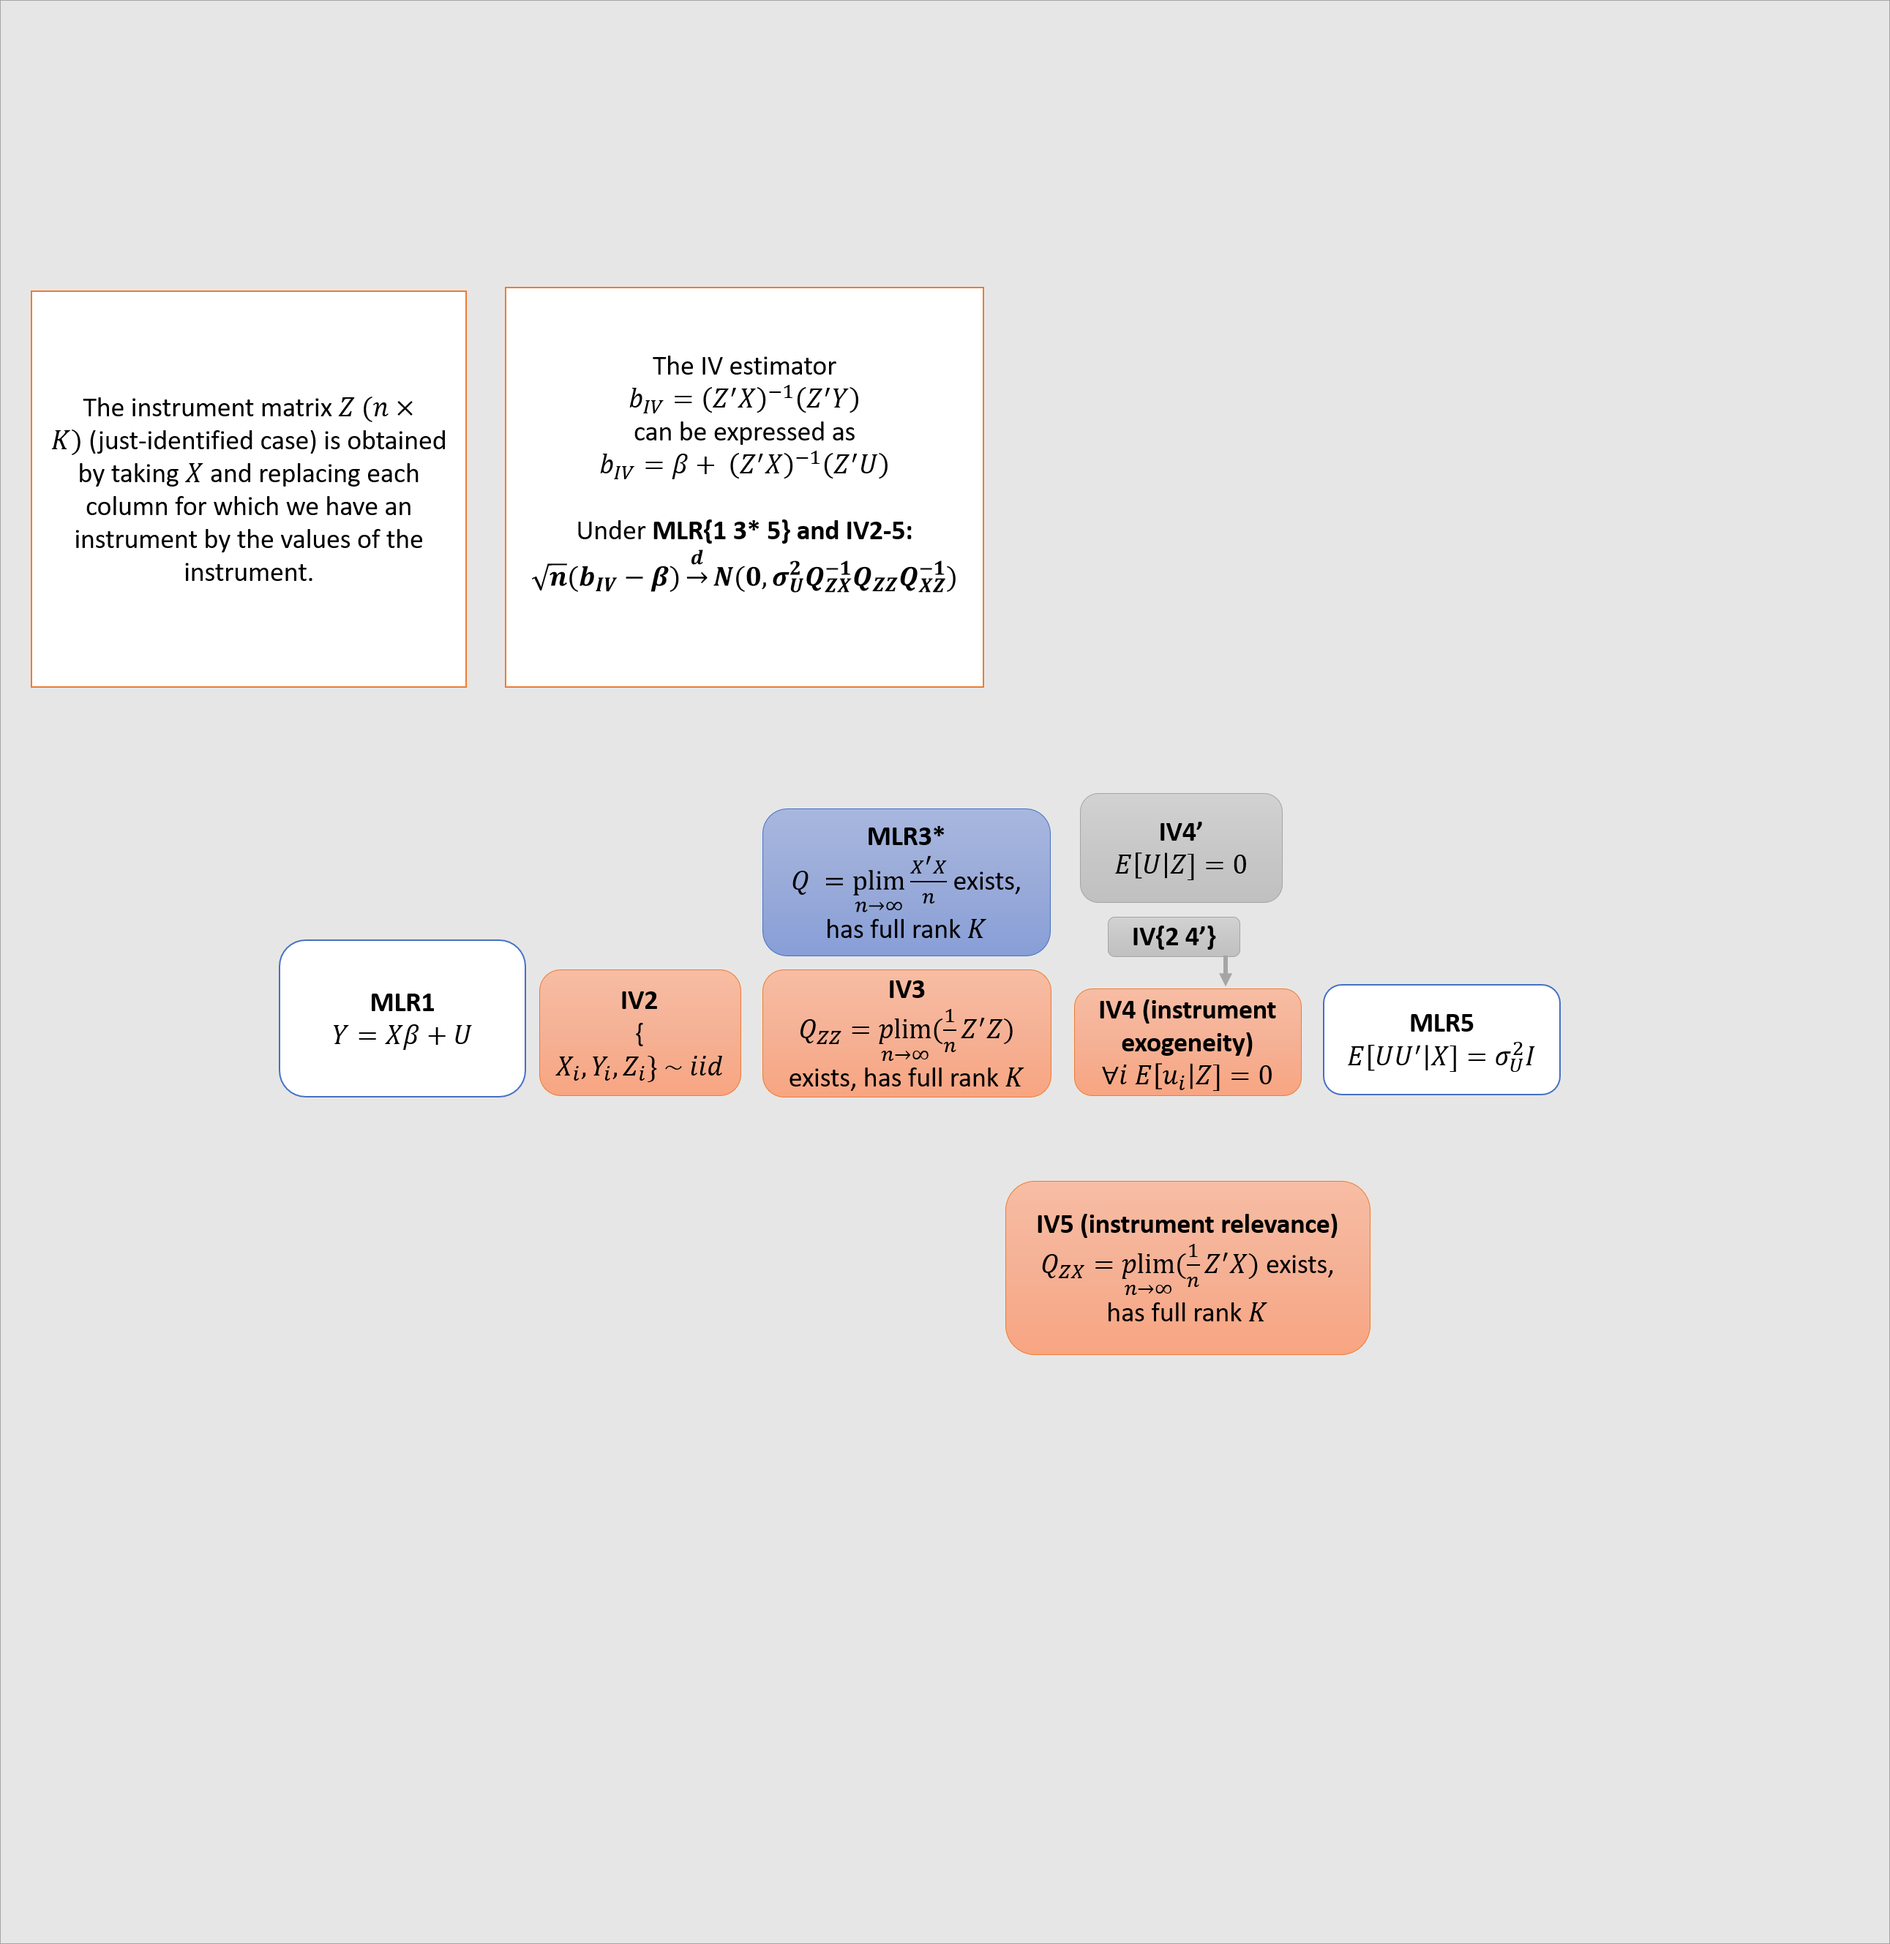
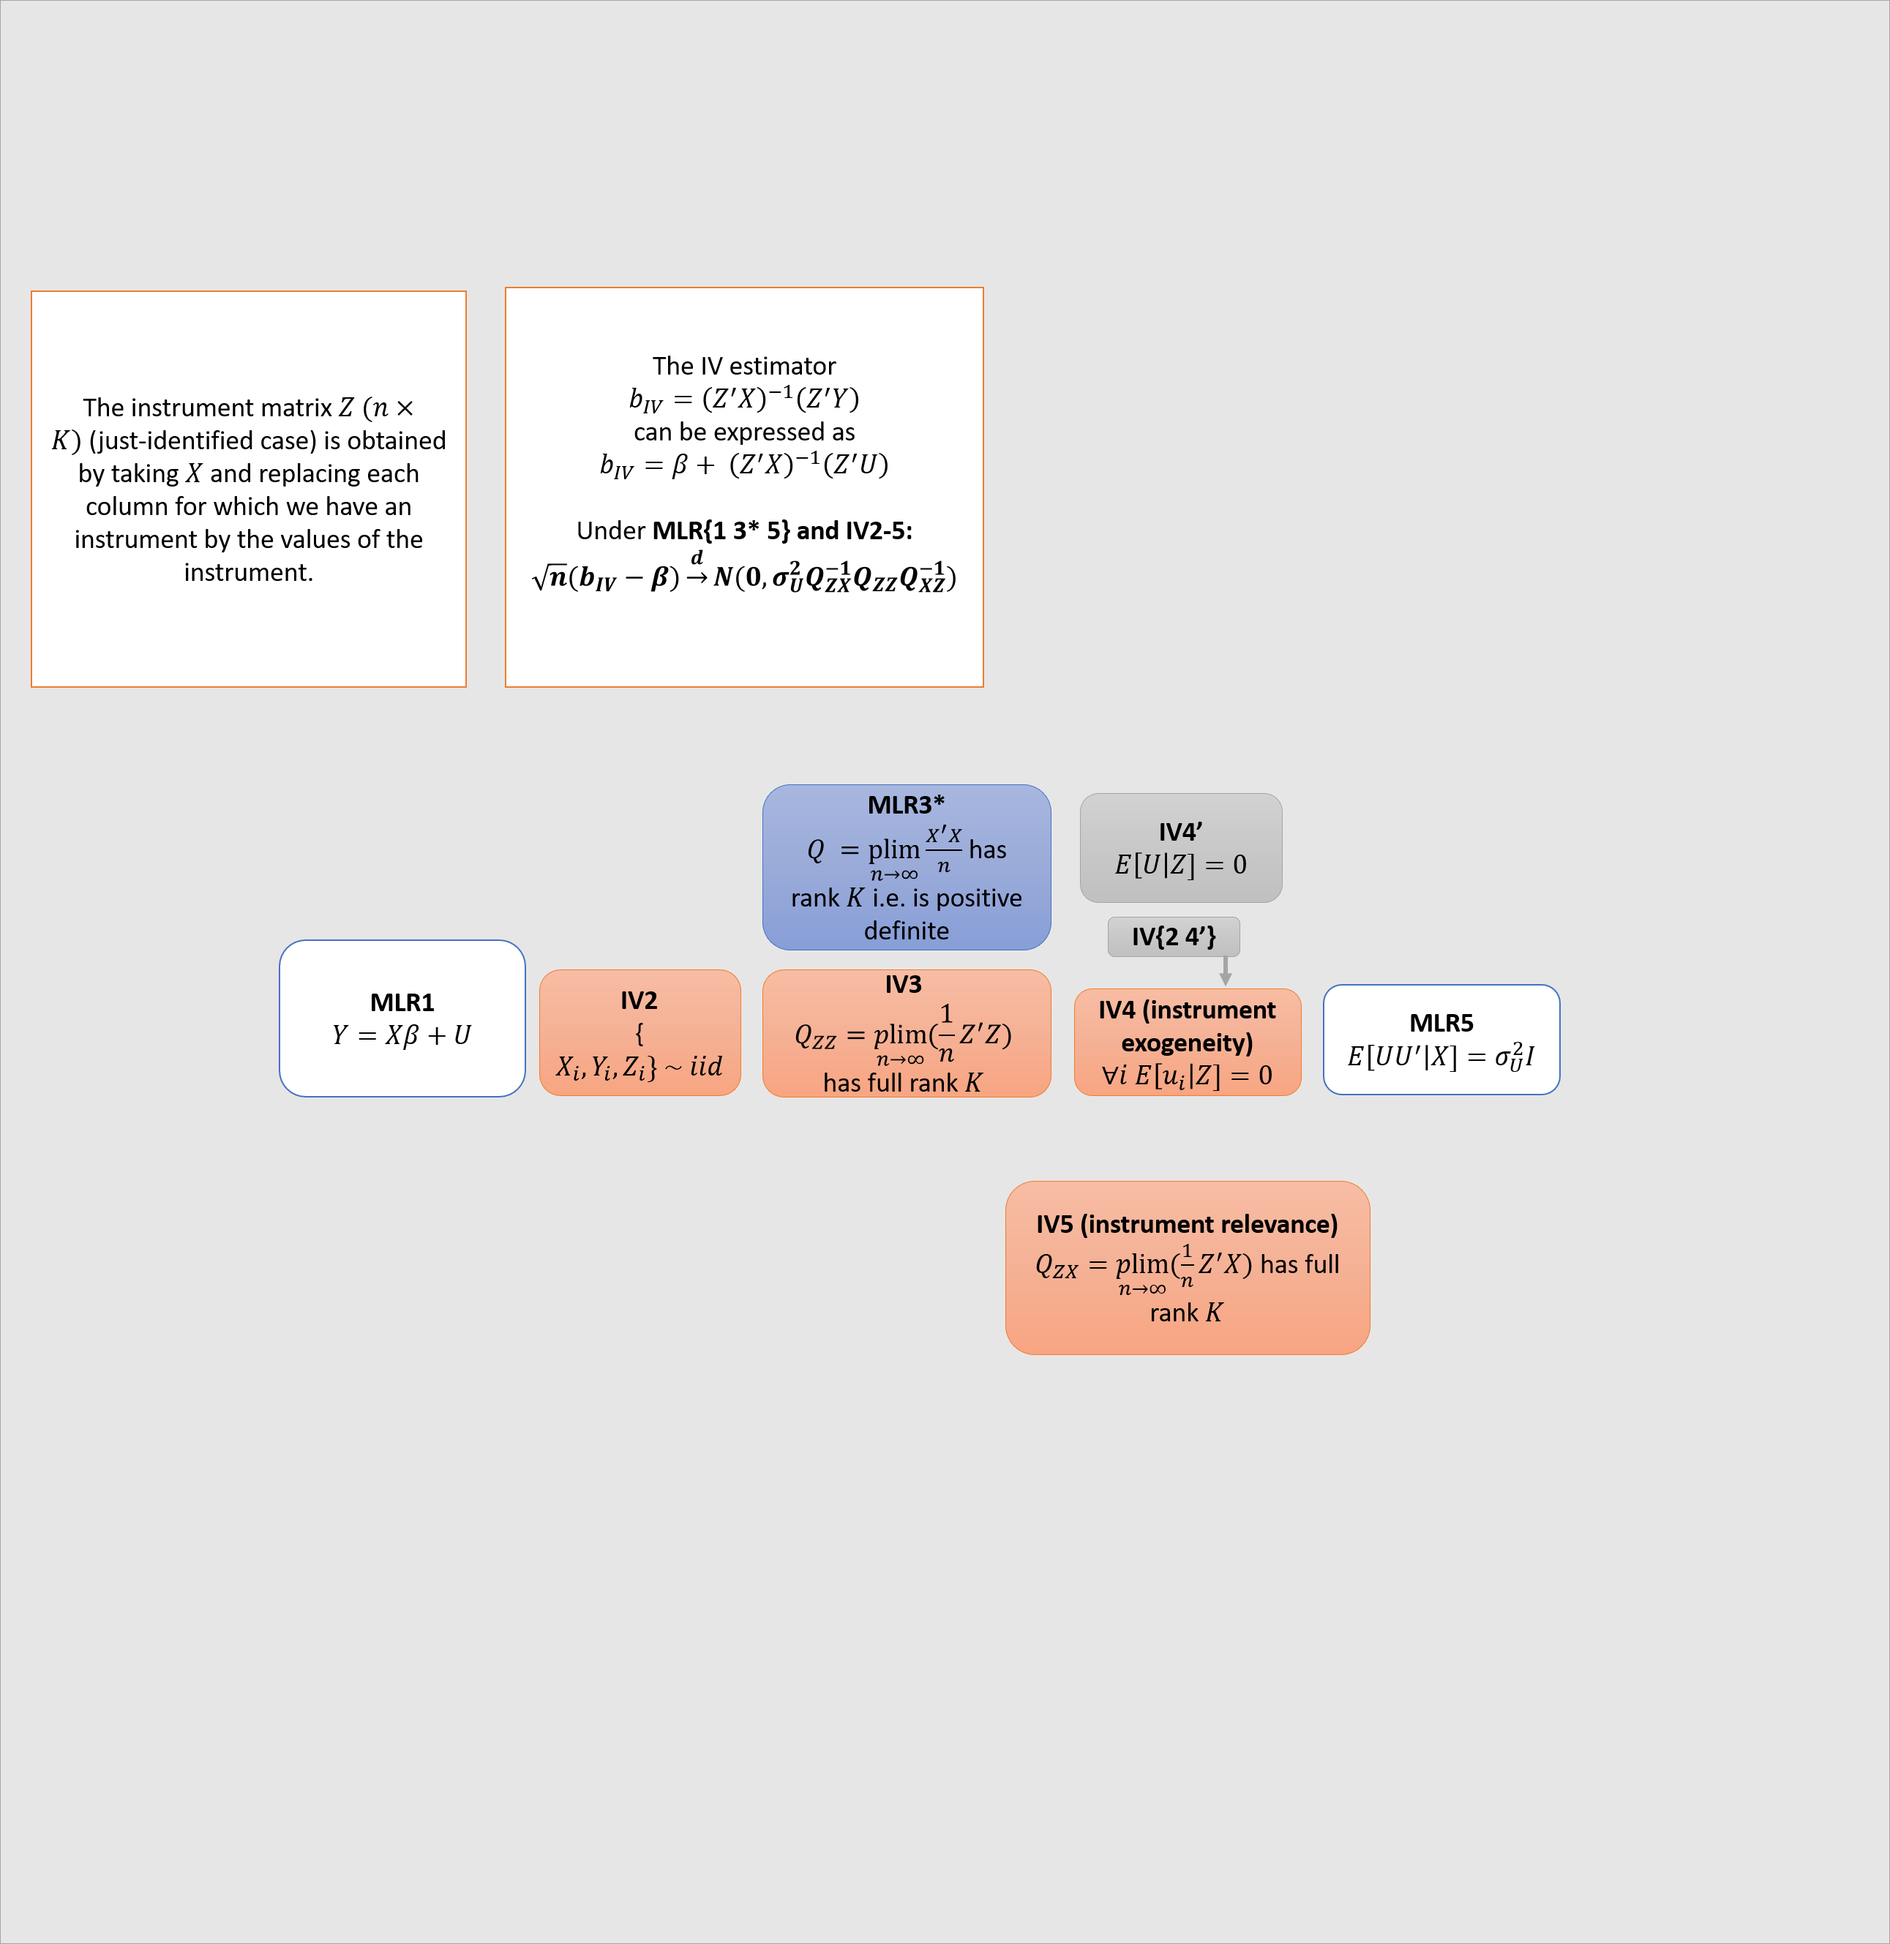
e

Changed region(s): [[0.4026, 0.4061, 0.5575, 0.5623], [0.5885, 0.6248, 0.7123, 0.6872]]

diff --git a/_posts/2018-01-10-linear-regression-diagram.md b/_posts/2018-01-10-linear-regression-diagram.md
@@ -3,7 +3,7 @@ layout: post
 title: "Diagrams of linear regression"
 ---
 
-I made a big diagram describing some assumptions (MLR1-6) that are used in linear regression. In my diagram, there are categories (in rectangles with dotted lines) of mathematical facts that follow from different subsets of MLR1-6. References in brackets are to Hayashi (2000). 
+I made a big diagram describing some assumptions (MLR1-6) that are used in linear regression. In my diagram, there are categories (in rectangles with dotted lines) of mathematical facts that follow from different subsets of MLR1-6. References in brackets are to Hayashi (2000).
 
 [![thelinearmodel](/images/linear-regression-diagram.png)](/images/linear-regression-diagram.png)
 
@@ -12,11 +12,13 @@ A couple of comments about the diagram are in order.
 * $$U$$,$$Y$$ are a $$n \times 1$$ vectors of random variables. $$X$$ may contain numbers or random variables. $$\beta$$ is a $$K \times 1$$ vector of numbers.
 * We measure: realisations of $$Y$$, (realisations of) $$X$$. We do not measure: $$\beta$$, $$U$$. We have one equation and two unknowns: we need additional assumptions on $$U$$.
 * We make a set of assumptions (MLR1-6) about the joint distribution $$f(U,X)$$. These assumptions imply some theorems relating the distribution of $$b$$ and the distribution of $$\beta$$.
-* Note the difference between MLR4 and MLR4’. The point of using the stronger MLR4 is that, in some cases, provided MLR4, MLR2 is not needed. To prove unbiasedness, we don’t need MLR2. For finite sample inference, we also don't need MLR2. But whenever the law of large numbers is involved, we do need MLR2 as a standalone condition.
+* Note the difference between MLR4 and MLR4’. The point of using the stronger MLR4 is that, in some cases, provided MLR4, MLR2 is not needed. To prove unbiasedness, we don’t need MLR2. For finite sample inference, we also don't need MLR2. But whenever the law of large numbers is involved, we do need MLR2 as a standalone condition. Note also that, since MLR2 and MLR4’ together imply MLR4, clearly MLR2 and MLR4 are never both needed. But I follow standard practise (e.g. Hayashi) in including them both, for example in the asymptotic inference theorems.
+* Note that since $$X’X$$ is a symmetric square matrix, $$Q$$ has full rank $$K$$ iff $$Q is positive definite; these are equivalent statements (see Wooldridge 2010 p. 57). Furthermore, if $$X$$ has full rank $$K$$, then $$X’X$$ has full rank $$K$$, so MLR3* is equivalent to MLR3 plus the fact that $$Q$$ is finite (i.e actually converges).
+* Note that $$Q$$ could alternatively be written $$E[X’X]$$
 * In the diagram, I stick to the brute mathematics, which is entirely independent of its (causal) interpretation.[^causal]
 
-[^causal]: 
-    But of course what really matters is the causal interpretation. 
+[^causal]:
+    But of course what really matters is the causal interpretation.
 
     As Pearl (2009) writes, “behind every causal claim there must lie some causal assumption that is not discernible from the joint distribution and, hence, not testable in observational studies”. If we wish to interpret $$\beta$$ (and hence $$b$$) causally, we must interpret MLR4 causally; it becomes a (strong) causal assumption.
 
@@ -33,6 +35,6 @@ The second diagram gives the asymptotic distribution of the IV estimator[^ivcaus
 
 [![iv](/images/instrumental-variables.png)](/images/instrumental-variables.png)
 
-[^ivcausal]: For IV, it's even clearer that the only reason to care is the causal interpretation. But I follow good econometrics practice and make only mathematical claims. 
+[^ivcausal]: For IV, it's even clearer that the only reason to care is the causal interpretation. But I follow good econometrics practice and make only mathematical claims.
 
 <hr> <!-- hr to be added before footnotes-->

diff --git a/_posts/2018-04-17-mindful-tech.md b/_posts/2018-04-17-mindful-tech.md
@@ -36,6 +36,7 @@ Disabling notifications can be a double-edged sword. You might remove one potent
 You can use the "trend micro security" app to block websites. I only weakly recommend it because the interface is crap and the blocking is pretty shallow. You can always go edit your settings. You could install another app like AppBlock to in turn block Trend micro and to block itself. But apps can be very easily and quickly uninstalled on Android, so you'd probably just uninstall them both if you got a big craving. At some point I had a clever scheme with blocking the android system app that uninstalls apps, but it became too brittle. Still, Trend micro's blocking can give you a couple of seconds to reconsider whether you _really_ want to open Twitter for the thirty-second time today.
 
 ## Home Screen
+<!--  white background -->
 ### Remove shortcuts
 Remove all but the least distracting apps from your home screen.
 
@@ -44,6 +45,8 @@ Remove all but the least distracting apps from your home screen.
 
 ### Nova launcher
 Use this custom Android launcher[^siempo] to remove the left-hand-side Google feed from the homescreen, and to remove the Google search bar.
+
+<!--  nova launcher grid size -->
 
 [^siempo]: I've been told there's also another launcher, called [Siempo](https://medium.com/@getsiempo/siempo-home-app-a-sneak-peek-8661f4724aa9), which is designed for mindful use. It's in Beta but looks  like it  has some cool features.
 
